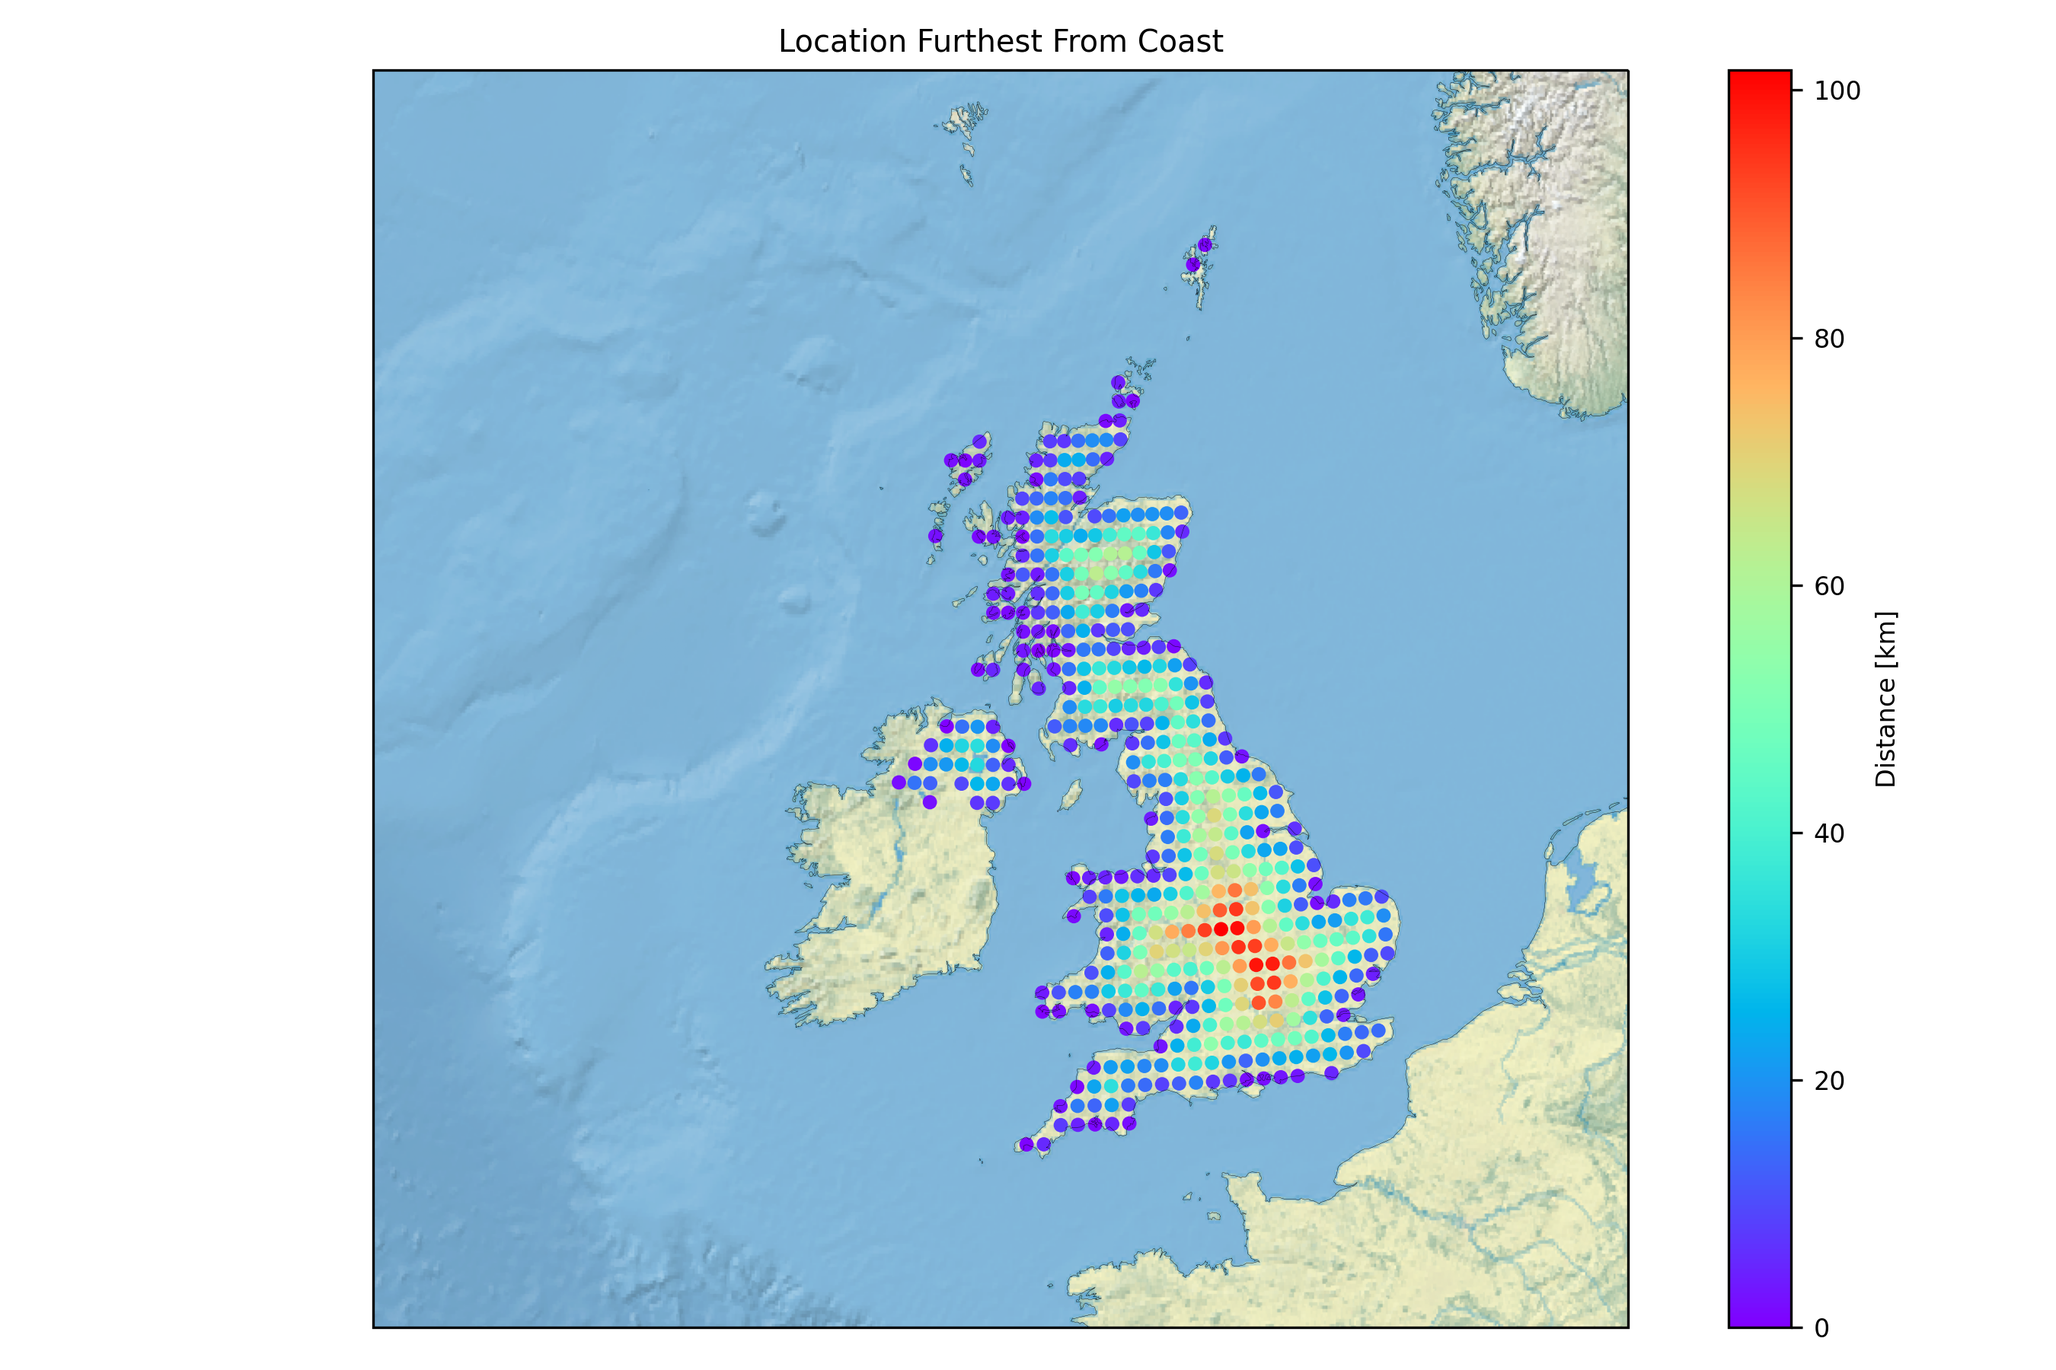
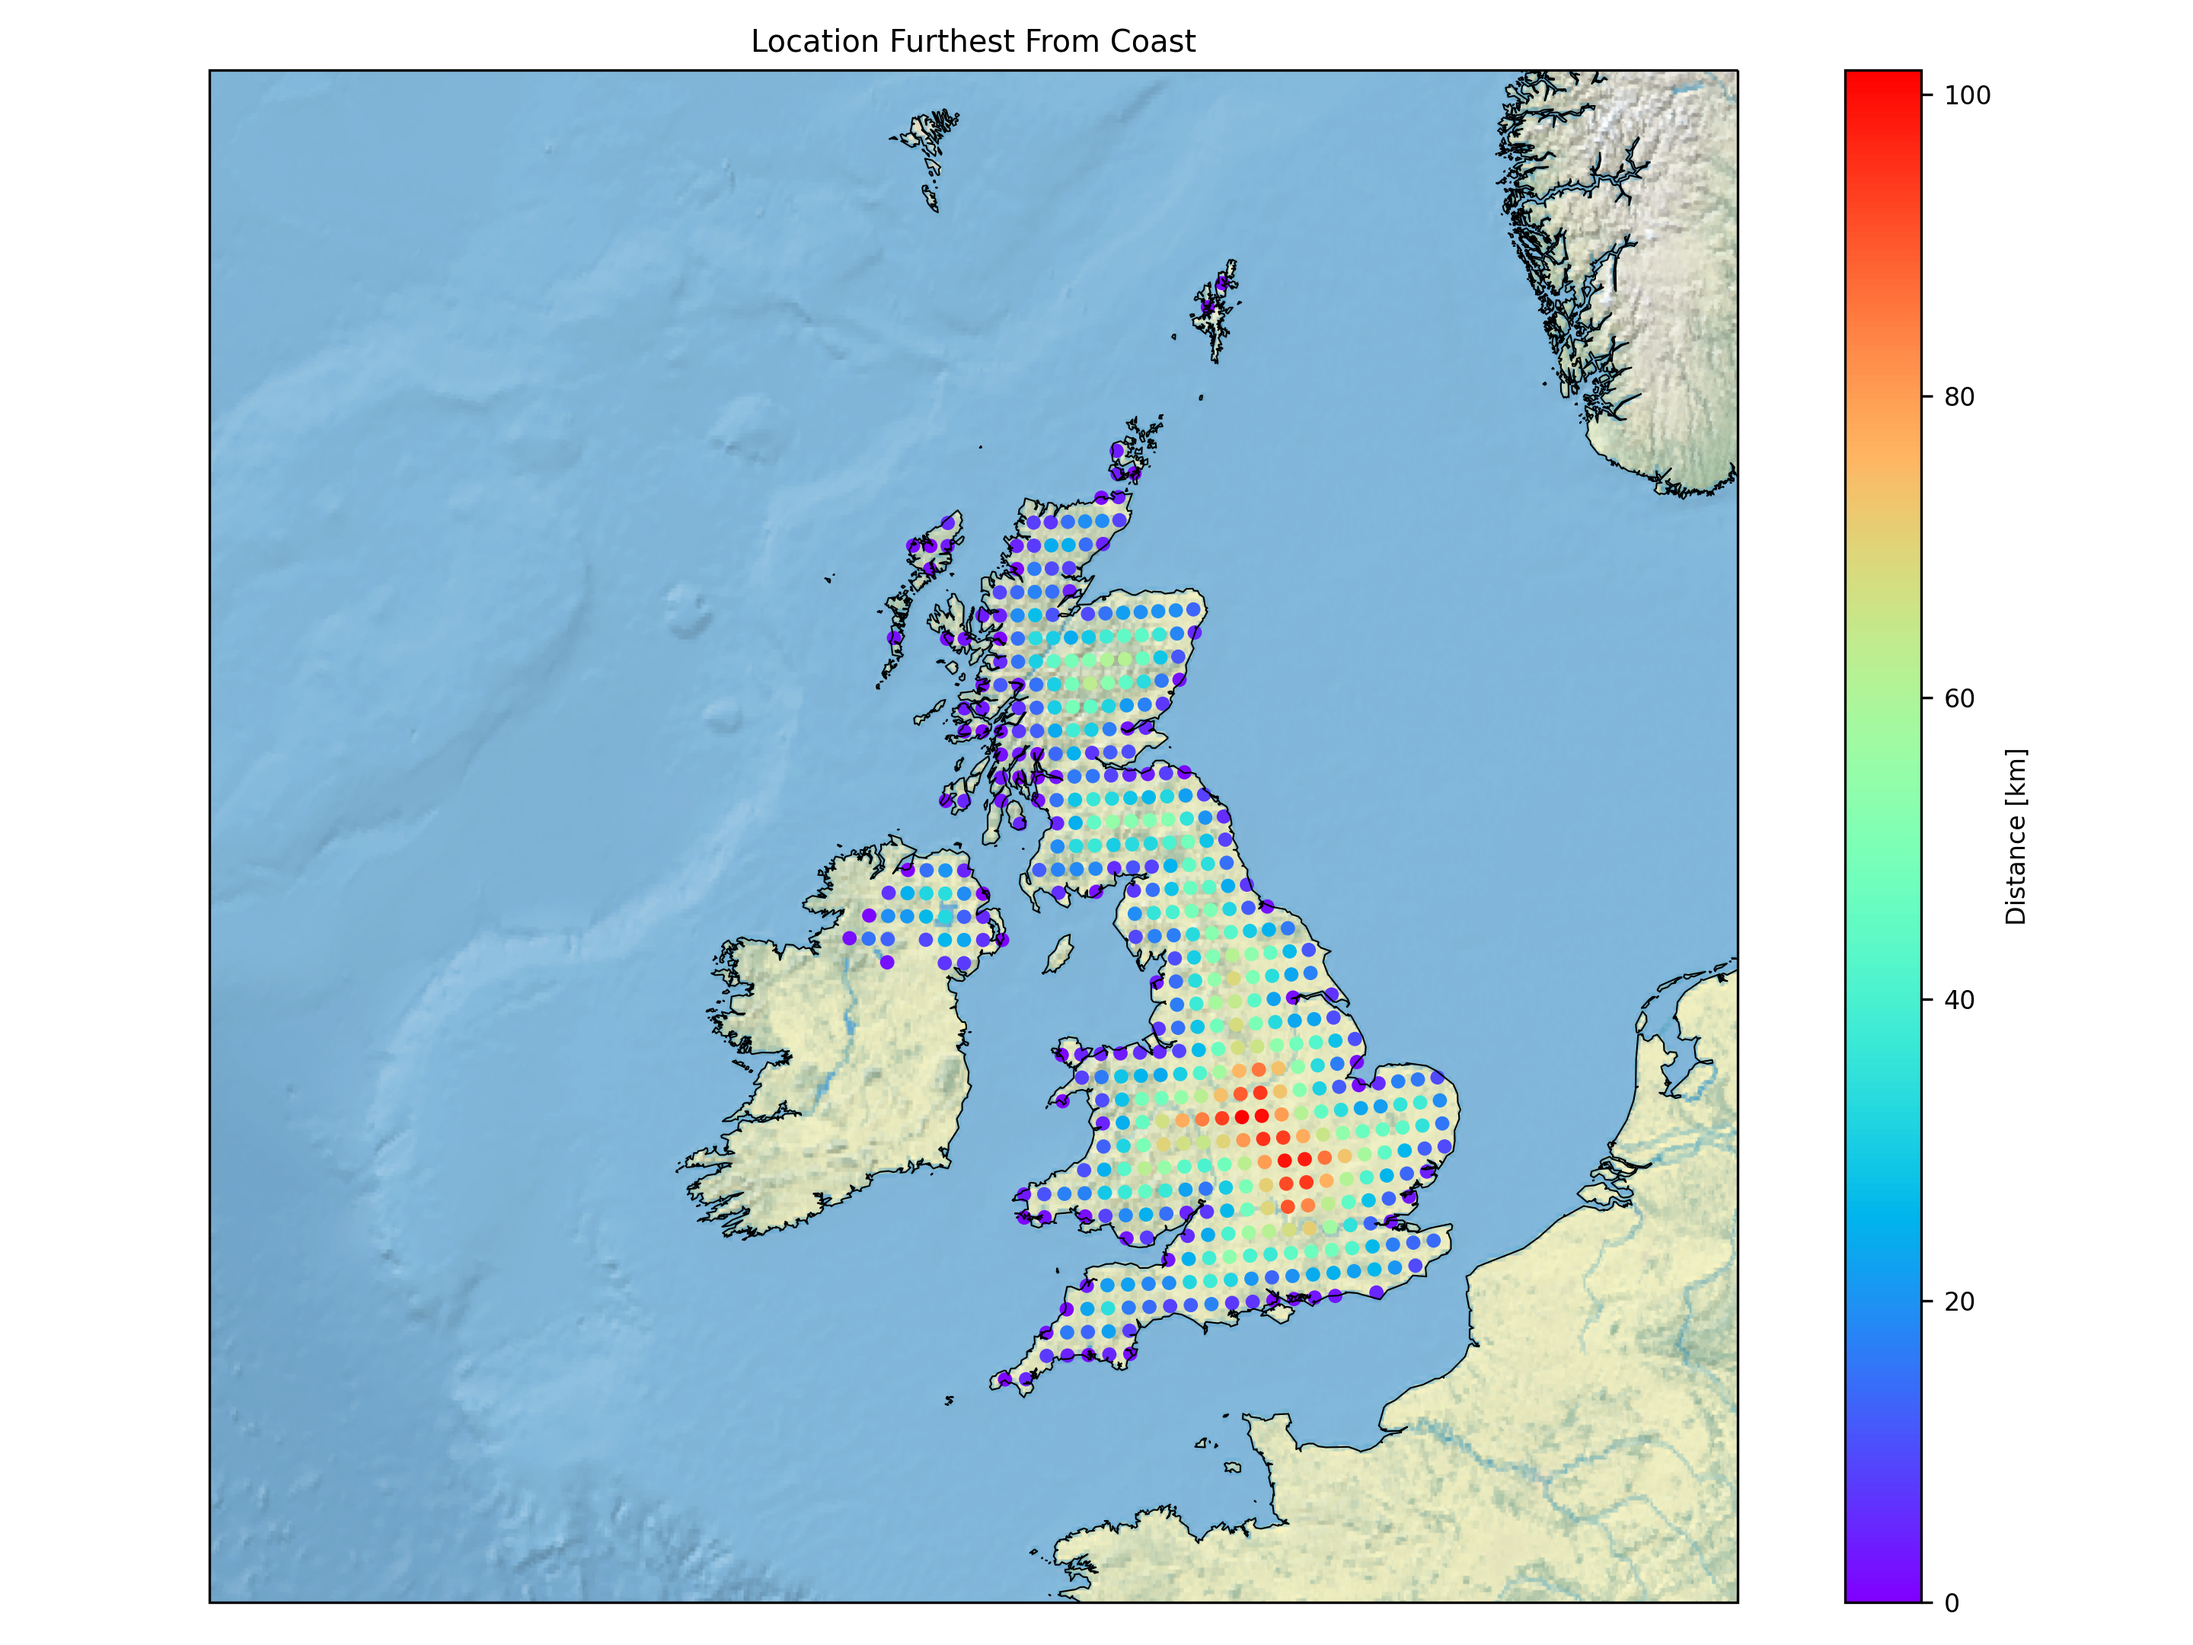
standardise figure sizes

Changed region(s): [[0.0933, 0.0, 0.8089, 0.9956], [0.84, 0.0311, 0.9333, 0.9956], [0.5289, 0.1556, 0.5911, 0.2178]]

diff --git a/flffc/run.py b/flffc/run.py
@@ -14,9 +14,10 @@ def run(dirOut, /, *, country = "United Kingdom", steps = 50):
         import matplotlib
         matplotlib.rcParams.update(
             {
-                   "backend" : "Agg",                                           # NOTE: See https://matplotlib.org/stable/gallery/user_interfaces/canvasagg.html
-                "figure.dpi" : 300,
-                 "font.size" : 8,
+                       "backend" : "Agg",                                       # NOTE: See https://matplotlib.org/stable/gallery/user_interfaces/canvasagg.html
+                    "figure.dpi" : 300,
+                "figure.figsize" : (9.6, 7.2),                                  # NOTE: See https://github.com/Guymer/misc/blob/main/README.md#matplotlib-figure-sizes
+                     "font.size" : 8,
             }
         )
         import matplotlib.pyplot
@@ -93,7 +94,7 @@ def run(dirOut, /, *, country = "United Kingdom", steps = 50):
         )                                                                       # [m]
 
         # Create figure ...
-        fg = matplotlib.pyplot.figure(figsize = (9, 6))
+        fg = matplotlib.pyplot.figure()
 
         # Create axis ...
         ax = pyguymer3.geo.add_top_down_axis(

diff --git a/README.md b/README.md
@@ -17,7 +17,7 @@ If `country` is not specified it defaults to "United Kingdom". If `steps` is not
 
 The last line of the output from FLFFC will tell you how far you can (roughly) get from the coast in your chosen country. For the United Kingdom (with 50 steps) the line is "The furthest you can get from the coast is ~101.6 km". FLFFC will also create a PNG named after your chosen country showing where that location is. Below is the result for the United Kingdom (with 50 steps).
 
-![FLFFC output for the United Kingdom](output/United Kingdom.png)
+![FLFFC output for the United Kingdom](output/United%20Kingdom.png)
 
 ## Dependencies
 
